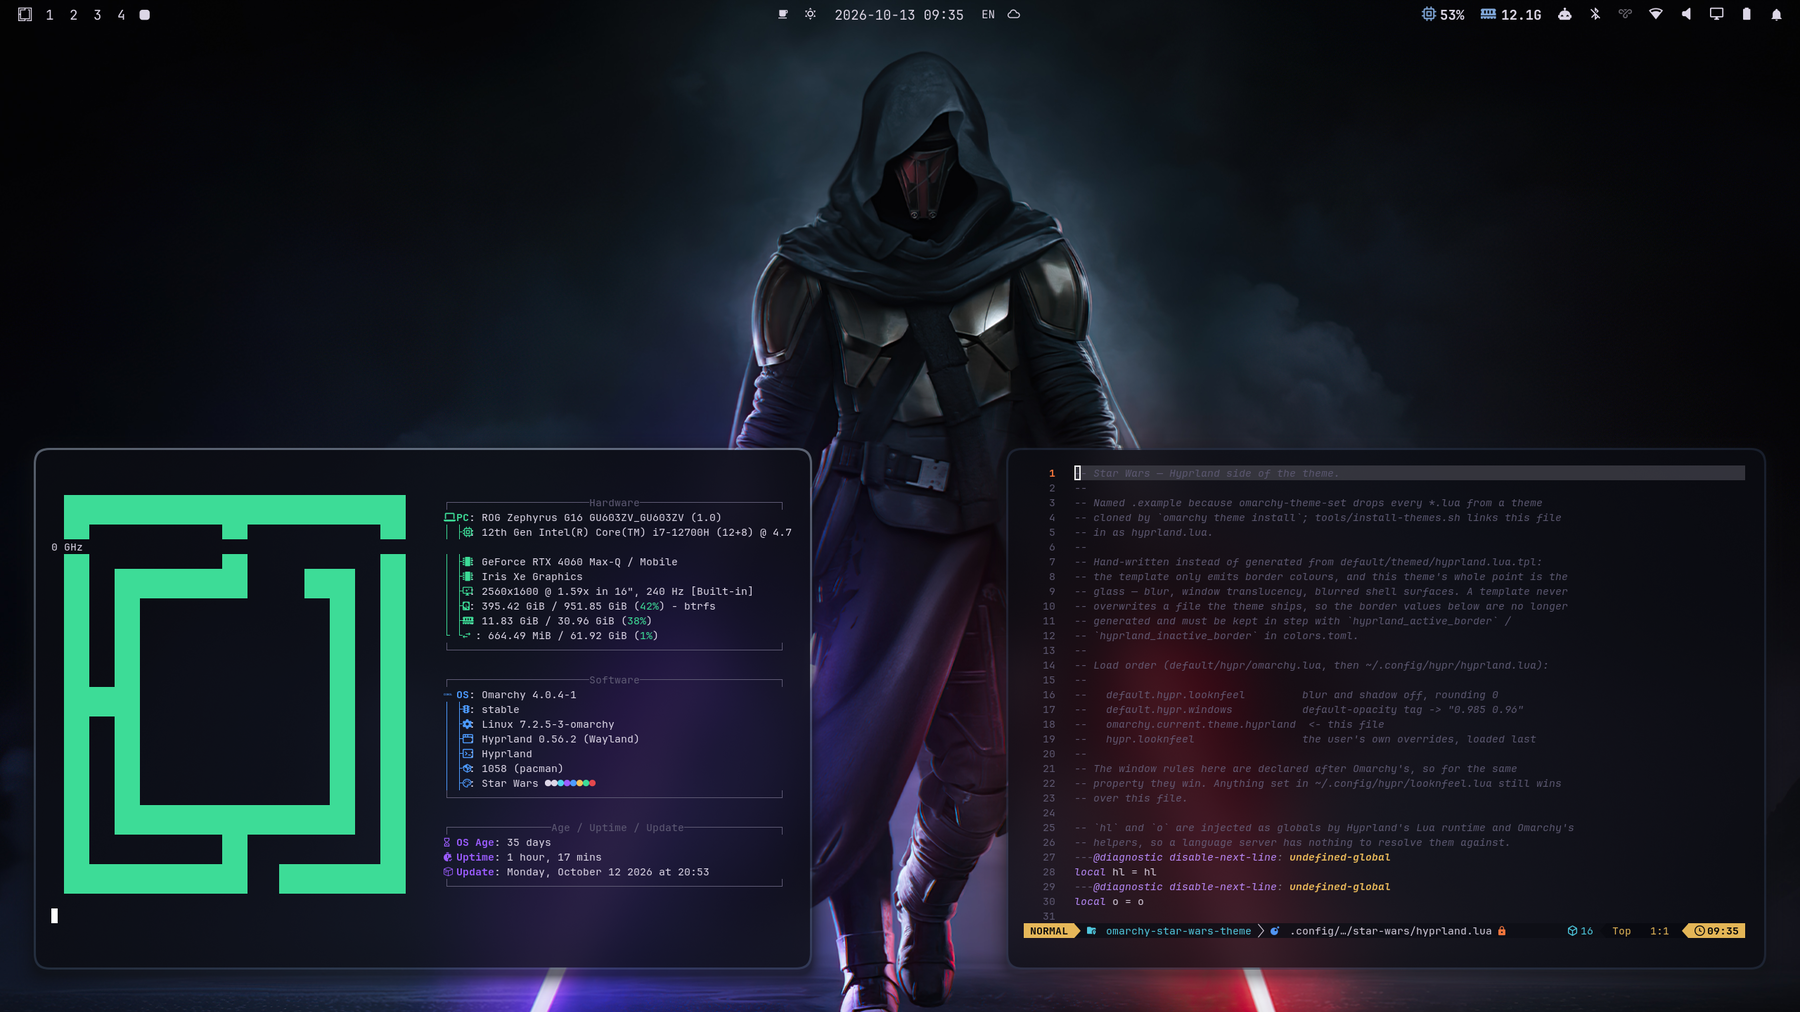
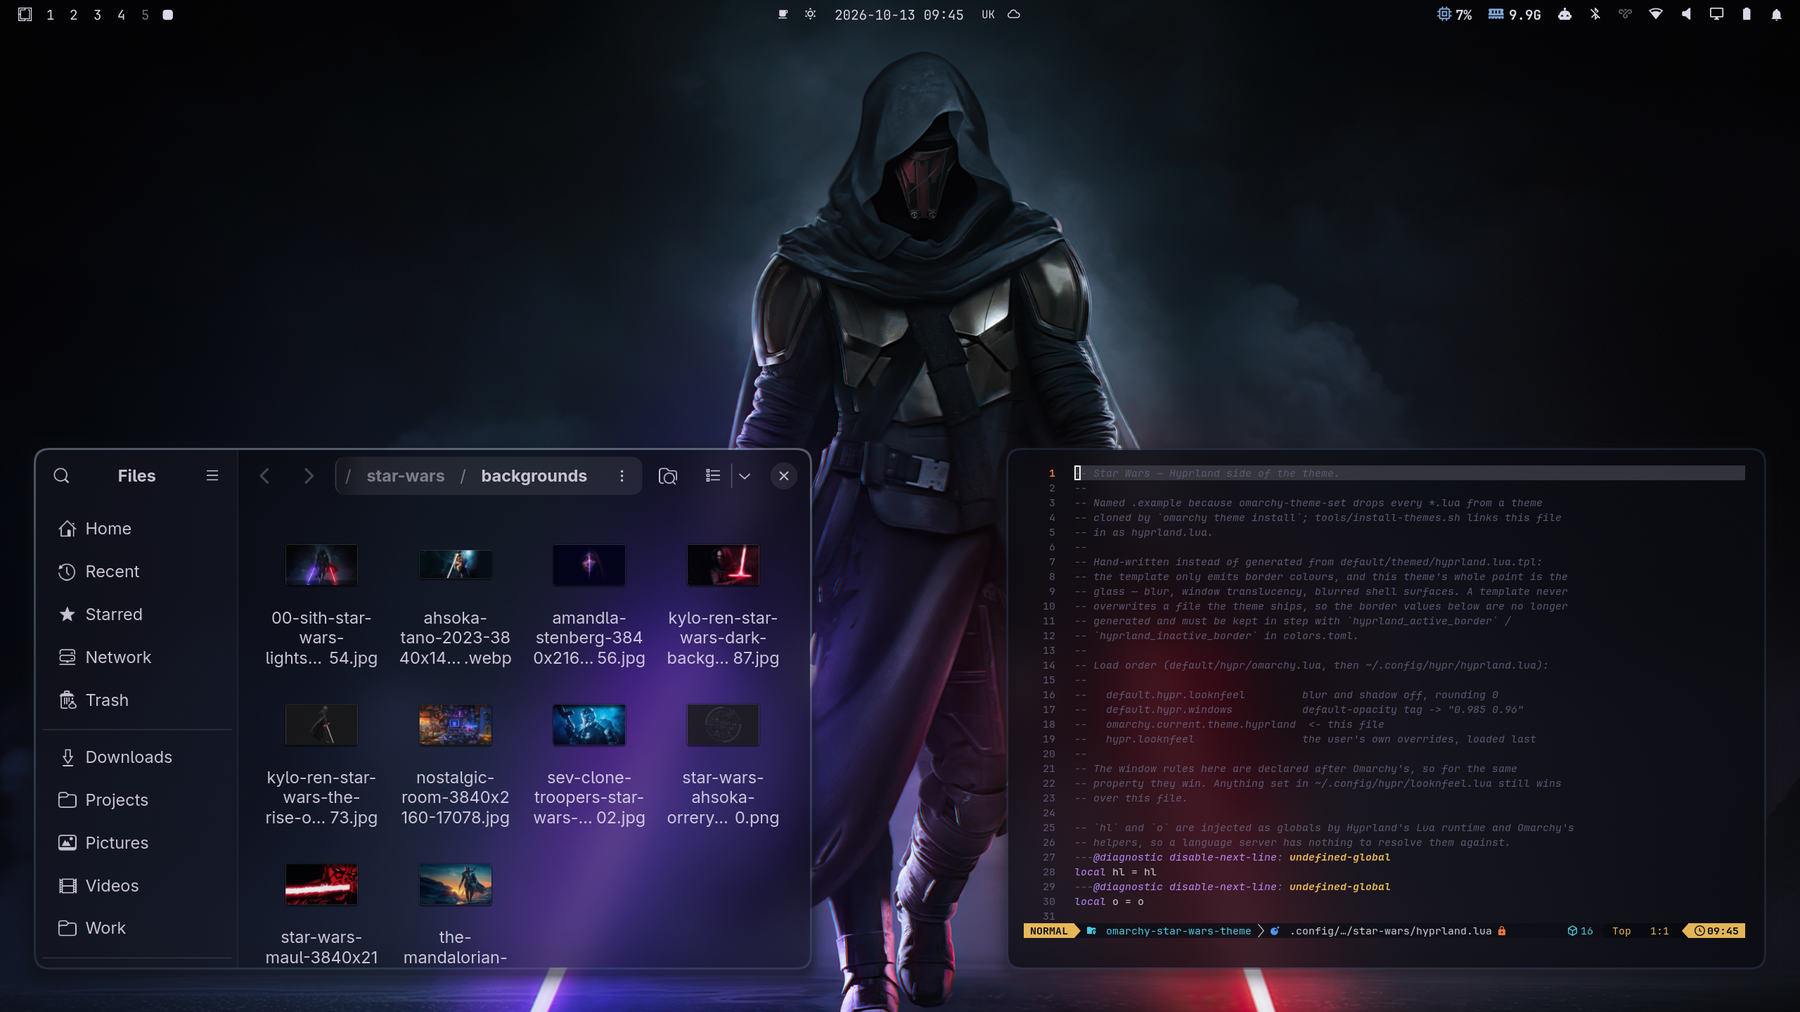
Shoot the previews with Files and an editor
The fastfetch window was mostly empty at preview size. Files on the theme's
wallpapers shows the GTK side of the theme and the wallpapers themselves.

The capture script also scales the editor font with the screen, parks the
pointer off-screen, returns to its workspace before each shot (applying a
theme hands focus to a window elsewhere) and crops from the top so a 16:10
panel keeps the bar.

Changed region(s): [[0.0311, 0.4289, 0.4667, 0.9802], [0.7778, 0.0, 0.84, 0.0306]]

diff --git a/CLAUDE.md b/CLAUDE.md
@@ -50,11 +50,12 @@ Rules for keeping them in parallel:
 
 Thumbnails: `preview.png` (the gallery install, see below), `preview-full.png`
 (Star Wars) and `preview-glass.png` (Star Wars Glass) are real screenshots
-from `./tools/capture-previews.sh`: it applies each look for real (fastfetch prints the theme name, so a shot taken under
-the wrong theme is visibly wrong) and floats two windows so the Sith
+from `./tools/capture-previews.sh`: it applies each look for real and floats two windows (Files on the
+wallpapers, a theme file in Neovim — its status line names the theme
+directory, so a shot taken under the wrong theme is visibly wrong) so the Sith
 wallpaper's blades cross their edges — where hyprglass visibly bends the
 light and plain blur does not. It needs an empty visible workspace
-(`PREVIEW_WORKSPACE`) and puts the original theme back. Commit before
+(`PREVIEW_WORKSPACE`) with Files closed, and puts the original theme back. Commit before
 shooting: Neovim's git signs mark uncommitted lines in the right-hand window.
 
 ## Two installs: the gallery clone and `tools/install-themes.sh`

diff --git a/README.md b/README.md
@@ -144,8 +144,8 @@ the hyprglass plugin, built in step 4.
      empty workspace and run `PREVIEW_WORKSPACE=<n> ./tools/capture-previews.sh`.
      It applies each look in turn — the gallery install included, staged
      the way Omarchy would stage a clone — screenshots it (with `grim`,
-     `foot`, `fastfetch` and `nvim`, all shipped with Omarchy) and puts your
-     theme back.
+     `foot`, `nvim` and Files, all shipped with Omarchy; close Files first)
+     and puts your theme back.
 
 ### Update
 
